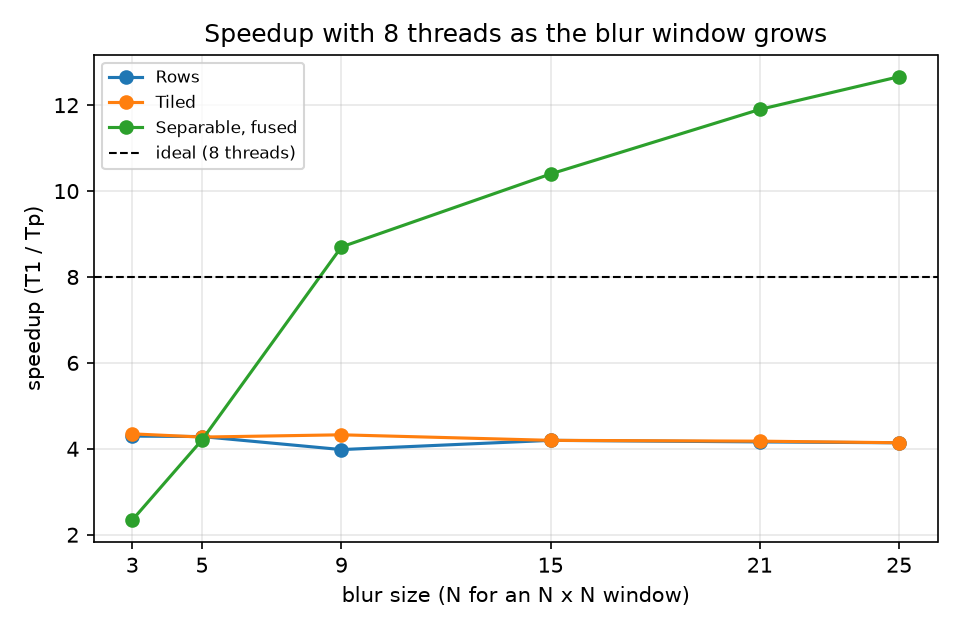
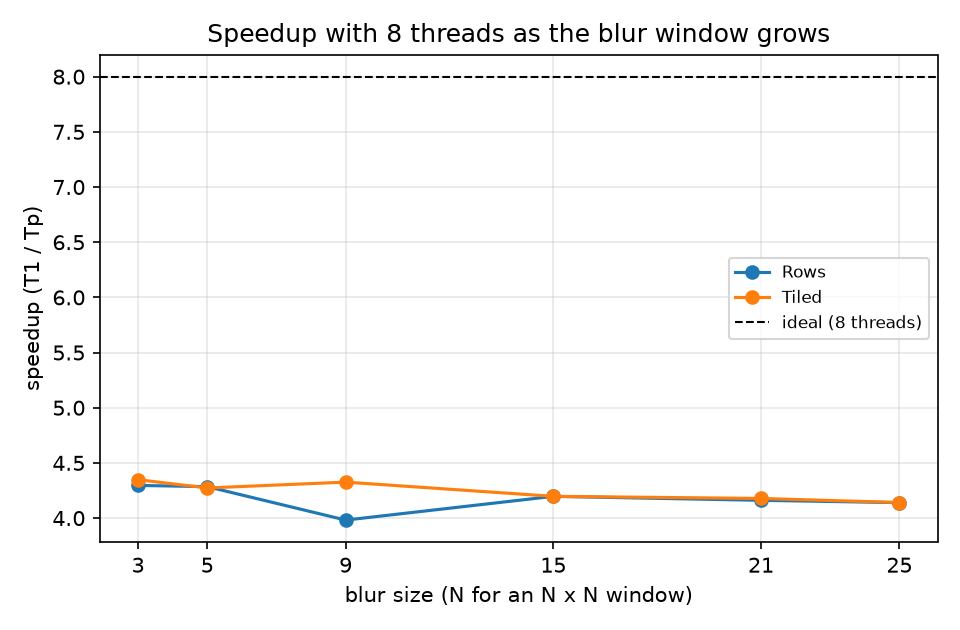
results: drop the removed omp_sep_fused rows; replot
The raw .log files are kept as recorded.

diff --git a/scripts/run_all.py b/scripts/run_all.py
@@ -112,7 +112,7 @@ def main():
     ])
     print("3. Blur size sweep", flush=True)
     bench_runs("blur_sizes", [
-        ("--size", s["sweep"], "--kernel", "blur", "--blur-size", n, "--methods", "omp_rows,omp_tiled,omp_sep_fused",
+        ("--size", s["sweep"], "--kernel", "blur", "--blur-size", n, "--methods", "omp_rows,omp_tiled",
          "--threads", s["sweep_threads"], "--reps", s["sweep_reps"])
         for n in (3, 5, 9, 15, 21, 25)
     ])
